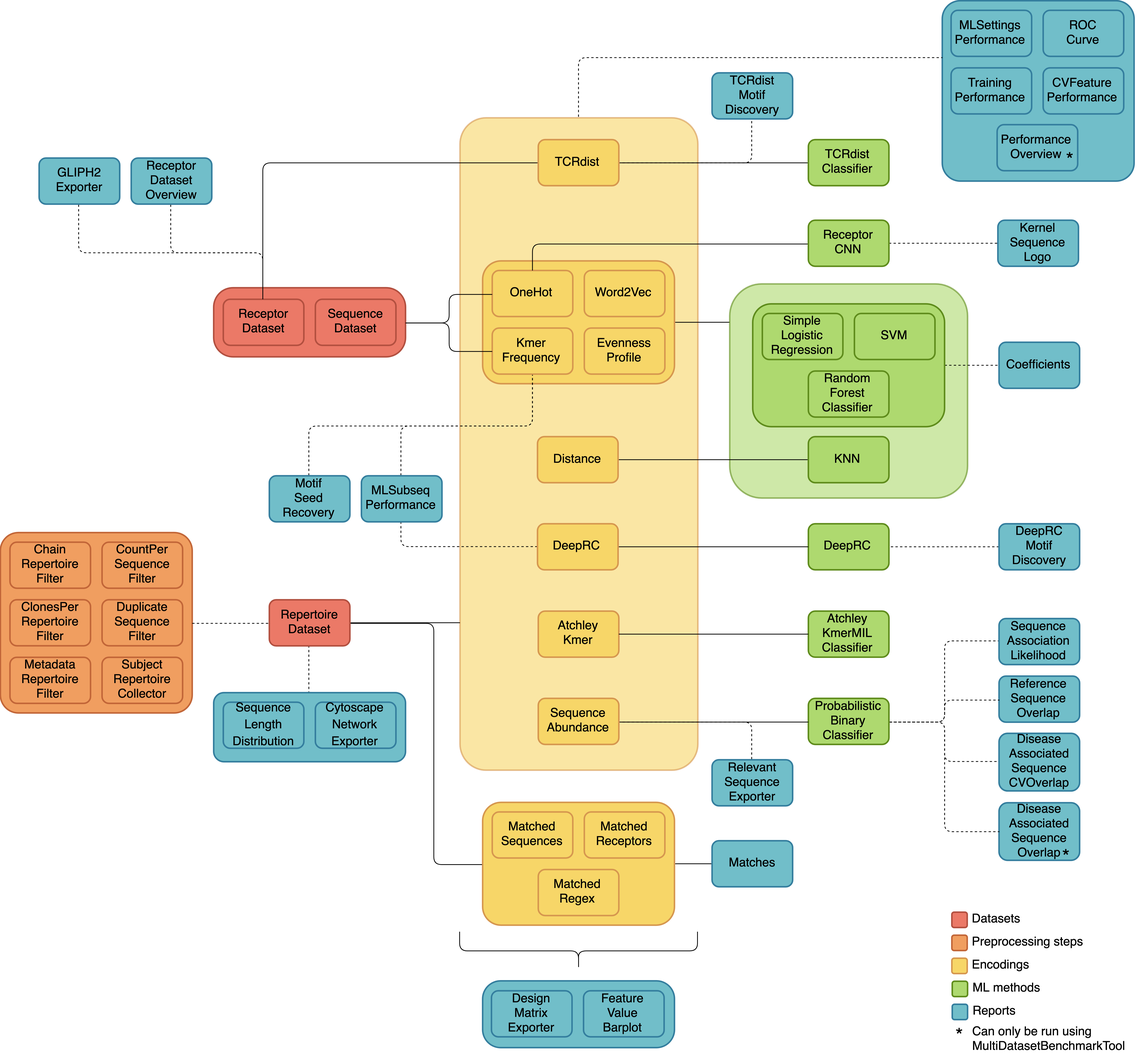
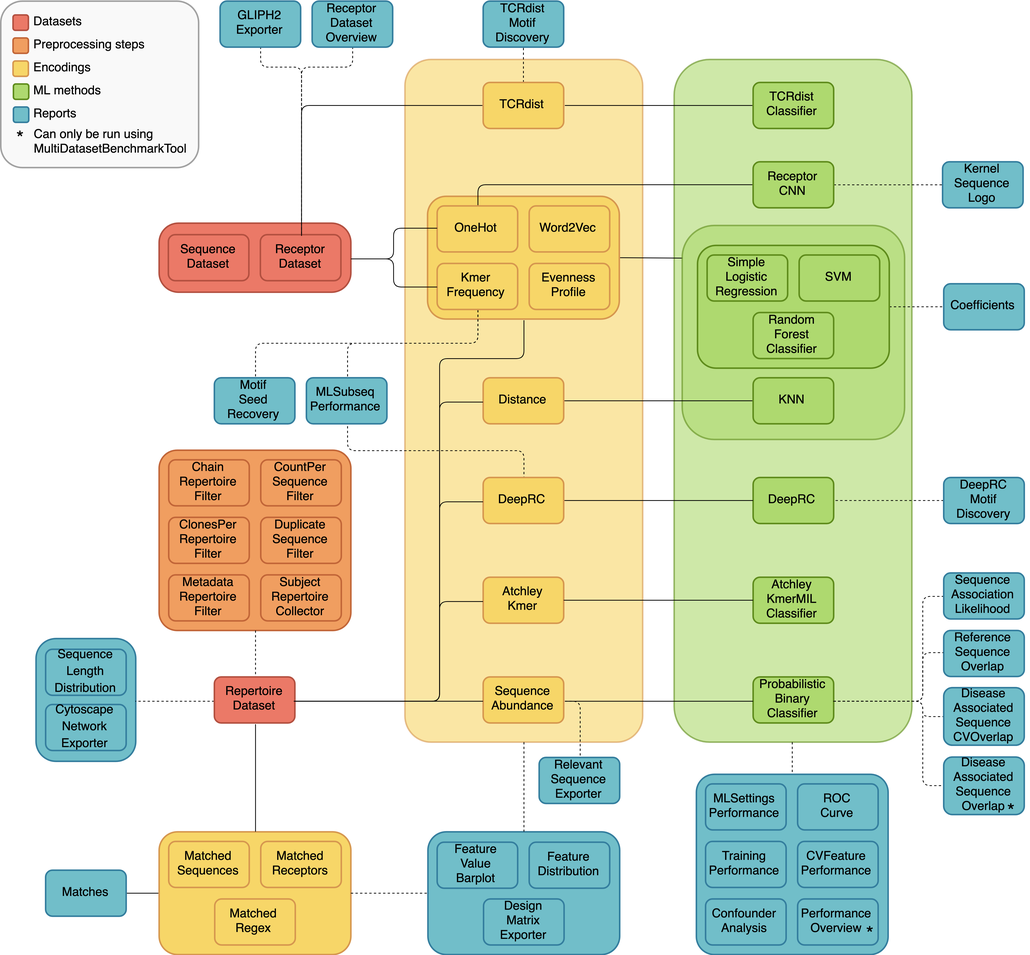
Documentation updates (user feedback) (#81)
* correct sentence in HTML: only 'metrics' are shown, this does not necessarily include optimization metric

* updated analysis paths figure: added new reports, made connections more correct (repertoire dataset not connected to tcrdist, ML reports connected to ML methods instead of encodings, some general reordering to make the figure more compact)

* Docs updates according to feedback

* minor update

* comment fix

* figure correction

* Update cli_yaml.rst

diff --git a/immuneML/presentation/html/templates/AssessmentSplitDetails.html b/immuneML/presentation/html/templates/AssessmentSplitDetails.html
@@ -104,8 +104,8 @@
         </div>
         {{/show_non_optimal}}
         {{#performances_per_metric}}
-        <p>The performance of different hyperparameter settings on all listed metrics (both the optimization metric and other metrics not used for
-            model selection and assessment) is shown in the table below. This is the performance on the test set for this assessment split when all
+        <p>The performance of different hyperparameter settings on all listed performance metrics
+            is shown in the table below. This is the performance on the test set for this assessment split when all
             models have been retrained on training and validation dataset (the same as the previous table).</p>
         <div class="table-container padded">
             {{{performances_per_metric}}}

diff --git a/docs/source/quickstart/galaxy_yaml.rst b/docs/source/quickstart/galaxy_yaml.rst
@@ -13,6 +13,7 @@ Getting started through Galaxy
 
 The Galaxy web interface is available at https://galaxy.immuneml.uio.no/.
 You may choose to register a user account or perform the analysis as an anonymous user.
+If you are an anonymous user, the data will disappear once your browser session expires.
 
 Different functionalities are available as Galaxy tools (left menu), and the analysis results appear in the Galaxy history (right list).
 These history elements can be used as input for the next tool, creating a multi-step analysis workflow.
@@ -29,18 +30,6 @@ available through `this Galaxy history <https://galaxy.immuneml.uio.no/u/immunem
 Alternatively, the tutorial :ref:`How to make an immuneML dataset in Galaxy` describes in detail
 how to make an immuneML dataset using your own data.
 
-This Quickstart dataset Galaxy history contains the following items:
-
-- 100 repertoire .tsv files in `AIRR format <https://docs.airr-community.org/en/stable/datarep/format.html>`_.
-
-- A Collection of repertoires. This history element collects the 100 above-mentioned repertoire files in a Galaxy collection.
-  This Galaxy collection makes it easier to select the repertoires as an input to Galaxy tools (instead of selecting all 100 files manually, you can select the collection).
-  To read how to make your own Galaxy collection, see :ref:`Creating a Galaxy collection of files`.
-
-- A metadata.csv file. The metadata file describes which of the 100 repertoires are diseased and healthy, under the
-  column named 'signal_disease' which contains the values True and False.
-  For details about the metadata file, see :ref:`What should the metadata file look like?`
-
 Individual files can be inspected by clicking the eyeball icons.
 To import the complete history, click the + icon in the right upper corner.
 
@@ -48,12 +37,25 @@ To import the complete history, click the + icon in the right upper corner.
    :alt: import button Galaxy
    :width: 250
 
+This Quickstart dataset Galaxy history contains the following items:
+
+- 100 repertoire .tsv files in AIRR format. For details about the AIRR format, see the `AIRR documentation <https://docs.airr-community.org/en/stable/datarep/format.html>`_ and `this example file <https://galaxy.immuneml.uio.no/datasets/e86c1af9d83bf1ee/display/?preview=True>`_).
+
+- A Collection of repertoires. This history element collects the 100 above-mentioned repertoire files in a Galaxy collection.
+  This Galaxy collection makes it easier to select the repertoires as an input to Galaxy tools (instead of selecting all 100 files manually, you can select the collection).
+  To read how to make your own Galaxy collection, see :ref:`Creating a Galaxy collection of files`.
+
+- A metadata.csv file. The metadata file describes which of the 100 repertoires are diseased and healthy, under the
+  column named 'signal_disease' which contains the values True and False.
+  For details about the metadata file, see :ref:`What should the metadata file look like?` and `this example file <https://galaxy.immuneml.uio.no/datasets/a6e389145d2bcee5/display/?preview=True>`_
+
+
 Step 2: creating an immuneML Galaxy dataset
 ^^^^^^^^^^^^^^^^^^^^^^^^^^^^^^^^^^^^^^^^^^^^^^^^^
-Use the `Create dataset Galaxy tool <https://galaxy.immuneml.uio.no/root?tool_id=immune_ml_dataset>`_ (immuneml tools > Create dataset) to import the dataset
+Use the `Create dataset<https://galaxy.immuneml.uio.no/root?tool_id=immune_ml_dataset>`_  Galaxy tool (under 'immuneML tools') to import the dataset
 and create an *immuneML dataset* history item, which can subsequently be used as input for other Galaxy tools.
 
-Using the simplified interface, select 'repertoire dataset' and 'AIRR' data format, and select the metadata.csv file as metadata file.
+Select 'Simplified interface', then 'repertoire dataset' as dataset type and 'AIRR' data format, and select the metadata.csv file as metadata file.
 Under the 'Data files' field, all repertoire files must be selected.
 This can either be done by manually selecting all 100 repertoire files, or by selecting the Collection of repertoires.
 For convenience, we will use the latter option.
@@ -68,13 +70,14 @@ Select the collection of repertoires so it becomes highlighted.
 
 Finally, click 'execute'.
 
-Three new items will appear in the Galaxy history. If everything went correctly, the items will appear green. If the items
+Three new items will appear in the Galaxy history. If everything went correctly, the items would appear green. If the items
 are red, an error occurred (check if you correctly selected the collection of repertoires).
 
 In 'Summary: dataset generation' you can find details about the newly
 generated dataset, including the name of the dataset, the dataset type and size, and a download link.
 
-The next item, 'Archive: dataset generation' contains an archive of the output folder produced by immuneML.
+The next item, 'create_dataset.yaml' the YAML specification file that was used by immuneML to create the dataset.
+This YAML specification could be used when running the Create dataset tool with the 'Advanced' interface.
 
 Finally, 'immuneML dataset' is a new Galaxy collection containing the immuneML dataset in Pickle format.
 The Pickle format is not human-readable, but it ensures that you can quickly import the dataset into various Galaxy tools
@@ -84,7 +87,7 @@ without having to repeatedly specify the import parameters.
 Step 3: writing the YAML specification
 ^^^^^^^^^^^^^^^^^^^^^^^^^^^^^^^^^^^^^^^^^^^^^^^^^
 Any immuneML analysis is described by a YAML specification file.
-This file contains nested key-value pairs. Mandatory keywords with a specific meaning are marked like :code:`this`
+This file contains nested key-value pairs. Mandatory keywords with a specific meaning are :code:`styled like this`
 in the text. Note that correct whitespace (not tab) indentation of the yaml file is important.
 
 In this tutorial, we will only cover the essential elements of the YAML specification.
@@ -180,7 +183,7 @@ The file will appear as a new history element.
 Step 4: running the analysis
 ^^^^^^^^^^^^^^^^^^^^^^^^^^^^^^^^^^^^^^^^^^^^^^^^^
 
-Next, the `Train machine learning models <https://galaxy.immuneml.uio.no/root?tool_id=immuneml_train_ml_model>`_ Galaxy tool should be used.
+Next, the `Train machine learning models <https://galaxy.immuneml.uio.no/root?tool_id=immuneml_train_ml_model>`_ Galaxy tool (under 'immuneML tools') should be used.
 Select the YAML specification and previously created dataset from the history, and no additional files.
 
 .. image:: ../_static/images/galaxy/galaxy_train_ml_model.png
@@ -197,9 +200,10 @@ After running the Galaxy tool for training ML models, three new items will appea
    :width: 250
 
 
-The history item 'Summary: repertoire classification' contains HTML pages displaying a summary of the analysis.
+The history item 'Summary: ML model training' contains HTML pages displaying a summary of the analysis.
 On the first page, you will find a table which shows for each of the splits which of the ML settings (combination of ML model and encoding)
 performed best in the inner cross-validation loop, and the performance score of that ML model on the test set.
+Note that in this tutorial, only 1 data split was used.
 Furthermore, you can click 'see details' in the table to find a more detailed explanation about how well each model
 performed in the inner loop of cross validation (on the validation sets).
 By clicking 'see reports' you can find a report that plots the 25 top coefficients of the trained logistic regression model.
@@ -211,7 +215,7 @@ the implanted disease signal 'VLEQ', meaning the ML model learned the correct si
    :alt: coefficients report
    :width: 600
 
-The next item, 'Archive: repertoire classification' contains a downloadable archive of the complete immuneML ouput (including
+The next item, 'Archive: ML model training' contains a downloadable archive of the complete immuneML ouput (including
 the files available through the other history elements).
 
 Finally, history element 'optimal_ml_settings.zip' is a .zip file containing the configuration of the optimal ML settings,

diff --git a/docs/source/quickstart/galaxy_simple.rst b/docs/source/quickstart/galaxy_simple.rst
@@ -30,7 +30,7 @@ how to make an immuneML dataset using your own data.
 
 This Quickstart dataset Galaxy history contains the following items:
 
-- 100 repertoire .tsv files in `AIRR format <https://docs.airr-community.org/en/stable/datarep/format.html>`_.
+- 100 repertoire .tsv files in AIRR format. For details about the AIRR format, see the `AIRR documentation <https://docs.airr-community.org/en/stable/datarep/format.html>`_ and `this example file <https://galaxy.immuneml.uio.no/datasets/e86c1af9d83bf1ee/display/?preview=True>`_).
 
 - A Collection of repertoires. This history element collects the 100 above-mentioned repertoire files in a Galaxy collection.
   This Galaxy collection makes it easier to select the repertoires as an input to Galaxy tools (instead of selecting all 100 files manually, you can select the collection).
@@ -38,7 +38,7 @@ This Quickstart dataset Galaxy history contains the following items:
 
 - A metadata.csv file. The metadata file describes which of the 100 repertoires are diseased and healthy, under the
   column named 'signal_disease' which contains the values True and False.
-  For details about the metadata file, see :ref:`What should the metadata file look like?`
+  For details about the metadata file, see :ref:`What should the metadata file look like?` and `this example file <https://galaxy.immuneml.uio.no/datasets/a6e389145d2bcee5/display/?preview=True>`_
 
 Individual files can be inspected by clicking the eyeball icons.
 To import the complete history, click the + icon in the right upper corner.
@@ -49,10 +49,10 @@ To import the complete history, click the + icon in the right upper corner.
 
 Step 2: creating an immuneML Galaxy dataset
 ^^^^^^^^^^^^^^^^^^^^^^^^^^^^^^^^^^^^^^^^^^^^^^^^^
-Use the `Create dataset Galaxy tool <https://galaxy.immuneml.uio.no/root?tool_id=immune_ml_dataset>`_ (immuneml tools > Create dataset) to import the dataset
+Use the `Create dataset<https://galaxy.immuneml.uio.no/root?tool_id=immune_ml_dataset>`_  Galaxy tool (under 'immuneML tools') to import the dataset
 and create an *immuneML dataset* history item, which can subsequently be used as input for other Galaxy tools.
 
-Using the simplified interface, select 'repertoire dataset' and 'AIRR' data format, and select the metadata.csv file as metadata file.
+Select 'Simplified interface', then 'repertoire dataset' as dataset type and 'AIRR' data format, and select the metadata.csv file as metadata file.
 Under the 'Data files' field, all repertoire files must be selected.
 This can either be done by manually selecting all 100 repertoire files, or by selecting the Collection of repertoires.
 For convenience, we will use the latter option.
@@ -67,13 +67,14 @@ Select the collection of repertoires so it becomes highlighted.
 
 Finally, click 'execute'.
 
-Three new items will appear in the Galaxy history. If everything went correctly, the items will appear green. If the items
+Three new items will appear in the Galaxy history. If everything went correctly, the items would appear green. If the items
 are red, an error occurred (check if you correctly selected the collection of repertoires).
 
-In 'Summary: dataset generation' you can find details about the newly
+By viewing 'Summary: dataset generation' (click the eyeball icon) you can find details about the newly
 generated dataset, including the name of the dataset, the dataset type and size, and a download link.
 
-The next item, 'Archive: dataset generation' contains an archive of the output folder produced by immuneML.
+The next item, 'create_dataset.yaml' the YAML specification file that was used by immuneML to create the dataset.
+This YAML specification could be used when running the Create dataset tool with the 'Advanced' interface.
 
 Finally, 'immuneML dataset' is a new Galaxy collection containing the immuneML dataset in Pickle format.
 The Pickle format is not human-readable, but it ensures that you can quickly import the dataset into various Galaxy tools
@@ -84,7 +85,7 @@ Step 3: running the analysis
 ^^^^^^^^^^^^^^^^^^^^^^^^^^^^^^^^^^^^^^^^^^^^^^^^^
 
 The immuneML Galaxy instance has two tools that provide a simplified interface for training immune receptor and immune
-repertoire classifiers. Here, we will use the tool `Train immune repertoire classifiers (simplified interface) <https://galaxy.immuneml.uio.no/root?tool_id=novice_immuneml_interface>`_.
+repertoire classifiers. Here, we will use the Galaxy tool `Train immune repertoire classifiers (simplified interface) <https://galaxy.immuneml.uio.no/root?tool_id=novice_immuneml_interface>`_ (under 'immuneML tools').
 
 Select the *immuneML dataset* as input dataset, and write the name of the label that you want to predict.
 In this case, the label is 'signal_disease', because it is defined in the metadata.csv file.
@@ -94,6 +95,10 @@ In this case, the label is 'signal_disease', because it is defined in the metada
    :width: 500
 
 All other options are configurable however you want (choose at least one ML method).
+To speed up the running time, decrease the number of times to repeat the training process with random splits of data (last question),
+for example by setting the value to 1.
+When using 1 data split, selecting all ML methods and otherwise default settings, the running time is expected to be approximately 2 minutes.
+
 For background information explaining the relevant machine learning concepts, please refer to the text written
 below the tool (the text can also be found in :ref:`the documentation <How to train immune repertoire classifiers using the simplified Galaxy interface>`).
 
@@ -108,15 +113,16 @@ After running the Galaxy tool for training ML models, four new items will appear
    :width: 250
 
 The history item 'Summary: repertoire classification' contains HTML pages displaying a summary of the analysis.
-On the first page, you will find a table which shows for each of the splits (i.e., each repetition of the experiment)
-which of the machine learning models performed best during cross-validation. Furthermore, there is a barplot comparing the performance of the different
+On the first page, you will find a table which shows for each of the splits (i.e., each repetition of the training process)
+which of the machine learning models performed best during cross-validation.
+Furthermore, there is a barplot comparing the performance of the different
 machine learning models on the test set across all the splits.
 
 .. image:: ../_static/images/galaxy/galaxy_mlsettingsperformance.png
    :alt: performance barplot
    :width: 500
 
-Furthermore, you can click 'see details' in the table to find a more detailed explanation about how well each model
+You can click 'see details' in the table to find a more detailed explanation about how well each model
 performed in the inner loop of cross validation (on the validation sets).
 By clicking 'see reports' you can find reports showing the 25 largest coefficients of logistic regression
 or support vector machine, or the top 25 most important features for random forest. Below is an example of logistic

diff --git a/docs/source/galaxy/galaxy_simple_repertoires.rst b/docs/source/galaxy/galaxy_simple_repertoires.rst
@@ -23,11 +23,11 @@ file, in columns where the header and values correspond to the label and classes
 
   Metadata for repertoire classification
 
-When training an ML model, the goal is for the model to learn signals within the data which discriminate between the different classes. An ML model
-that predicts classes is also referred to as a classifier. A signal can have a variety of definitions, including the presence of specific receptors,
+When training an ML model, the goal is for the model to learn **signals** within the data which discriminate between the different classes. An ML model
+that predicts classes is also referred to as a **classifier**. A signal can have a variety of definitions, including the presence of specific receptors,
 groups of similar receptors or short CDR3 subsequences in an immune repertoire. Our assumptions about what makes up a ‘signal’ determines how we
-should represent our data to the ML model. This representation is called encoding. In this tool, the appropriate encoding is chosen based on the
-answers to the last two questions in the graphical user interface.
+should represent our data to the ML model. This representation is called **encoding**. In this tool, the encoding is automatically chosen based on
+the user's assumptions about the dataset.
 
 .. figure:: ../_static/images/repertoire_classification_overview.png
   :width: 70%
@@ -52,6 +52,12 @@ new repertoire is no evidence for this repertoire also being diseased.
 Other encoding variants are based on shorter subsequences (e.g., 3 – 5 amino acids long, also referred to as k-mers) in the CDR3 regions of an immune repertoire. With this
 encoding, the CDR3 regions are divided into overlapping subsequences and the (disease) signal may be characterized by the presence or absence of
 certain sequence motifs in the CDR3 regions. Here, two similar CDR3 sequences are no longer independent, because they contain many identical subsequences.
+A graphical representation of how a CDR3 sequence can be divided into k-mers, and how these k-mers can relate to specific positions in a 3D immune receptor
+(here: antibody) is shown in this figure:
+
+.. image:: ../_static/images/3mer_to_3d.png
+  :width: 60%
+
 
 The subsequences may be position-dependent or invariant. Position invariant means that if a subsequence, e.g., ‘EDNA’ occurs in different positions
 in the CDR3 it will still be considered the same signal. This is not the case for position dependent subsequences, if ‘EDNA’ often occurs in the
@@ -67,8 +73,8 @@ Note that in any case, the (sub)sequences that are associated with the ‘positi
 Training a machine learning model
 ----------------------------------
 
-Training an ML model means optimizing the parameters for the model with the goal of predicting the correct class of an (unseen) immune repertoire.
-Different ML methods require different procedures for training. In addition to the model parameters there are the hyperparameters, which
+Training an ML model means optimizing the **parameters** for the model with the goal of predicting the correct class of an (unseen) immune repertoire.
+Different ML methods require different procedures for training. In addition to the model parameters there are the **hyperparameters**, which
 do not directly change the predictions of a model, but they control the learning process (for example: the learning speed).
 
 The immune repertoires are divided into sets with different purposes: the training and validation sets are used for finding the optimal parameters
@@ -78,9 +84,11 @@ In this tool, a range of plausible hyperparameters have been predefined for each
 training/validation data into 5 equal portions, where 4 portions are used to train the ML model (with different hyperparameters) and the remaining
 portion is used to validate the performance of these hyperparameter settings. This is repeated 5 times such that each portion has been used for
 validation once. With the best hyperparameters found in the 5 repetitions, a final model is trained using all 5 portions of the data. This procedure
-is also referred to as 5-fold cross-validation.
+is also referred to as 5-fold cross-validation. Note that this 5-fold cross-validation is separate from the number of times the splitting into
+training + validation and testing sets is done (see the overview figure).
 
-The whole process may be repeated multiple times with different randomly selected repertoires in the test set, to see how robust the performance is.
+Finally, the whole process is repeated one or more times with different randomly selected repertoires in the test set, to see how robust the performance
+of the ML methods is. The number of times to repeat this splitting into training + validation and test sets is determined in the last question.
 
 
 Tool output

diff --git a/docs/source/galaxy/galaxy_simple_receptors.rst b/docs/source/galaxy/galaxy_simple_receptors.rst
@@ -21,8 +21,8 @@ The labels and classes must be present in the receptor metadata.
 When training an ML model, the goal is for the model to learn **signals** within the data which discriminate between the different
 classes. An ML model that predicts classes is also referred to as a **classifier**. A signal can have a variety of definitions,
 including the presence of a specific subsequence or conserved positions. Our assumptions about what makes up a ‘signal’
-determines how we should represent our data to the ML model. This representation is called **encoding**. In this tool, the
-appropriate encoding is chosen based on the answers to the last two questions.
+determines how we should represent our data to the ML model. This representation is called **encoding**. In this tool, the encoding is automatically chosen based on
+the user's assumptions about the dataset.
 
 .. figure:: ../_static/images/receptor_classification_overview.png
   :width: 70%
@@ -44,6 +44,12 @@ Encoding
 Encodings for immune receptor data represent the immune receptor based on the subsequences (e.g., 3 – 5 amino acids long)
 in the CDR3 regions. The CDR3 regions are divided into overlapping subsequences and the (antigen specificity)
 signal may be characterized by the presence or absence of certain sequence motifs in the CDR3 region.
+A graphical representation of how a CDR3 sequence can be divided into k-mers, and how these k-mers can relate to specific positions in a 3D immune receptor
+(here: antibody) is shown in this figure:
+
+.. image:: ../_static/images/3mer_to_3d.png
+  :width: 60%
+
 
 The subsequences may be position dependent or invariant. Position invariant means that if a subsequence, e.g.,
 ‘EDNA’ occurs in different positions in the CDR3 it will still be considered the same signal. This is not the case for
@@ -73,10 +79,11 @@ In this tool, a range of plausible hyperparameters have been predefined for each
 training/validation data into 5 equal portions, where 4 portions are used to train the ML model (with different hyperparameters) and the remaining
 portion is used to validate the performance of these hyperparameters settings. This is repeated 5 times such that each portion has been used for
 validation once. With the best hyperparameters found in the 5 repetitions, a final model is trained using all 5 portions of the data. This procedure
-is also referred to as 5-fold cross-validation.
+is also referred to as 5-fold cross-validation. Note that this 5-fold cross-validation is separate from the number of times the splitting into
+training + validation and testing sets is done (see the overview figure).
 
-The whole process may be repeated multiple times with different randomly selected repertoires in the test set, to see how robust the performance is.
-
+Finally, the whole process is repeated one or more times with different randomly selected receptors in the test set, to see how robust the performance
+of the ML methods is. The number of times to repeat this splitting into training + validation and test sets is determined in the last question.
 
 Tool output
 ---------------------------------------------

diff --git a/docs/source/quickstart/cli_yaml.rst b/docs/source/quickstart/cli_yaml.rst
@@ -35,17 +35,17 @@ Step 1: downloading the dataset
 An archive containing the dataset used in this tutorial can be downloaded here: :download:`quickstart_data.zip <../_static/files/quickstart_data.zip>`.
 It contains the following files:
 
-- The 100 repertoire_<somenumber>.tsv, which are immune repertoire files in `AIRR format <https://docs.airr-community.org/en/stable/datarep/format.html>`_.
+- The 100 repertoire_<somenumber>.tsv, which are immune repertoire files in AIRR format. For details about the AIRR format, see the `AIRR documentation <https://docs.airr-community.org/en/stable/datarep/format.html>`_ and `this example file <https://galaxy.immuneml.uio.no/datasets/e86c1af9d83bf1ee/display/?preview=True>`_).
 
 - A metadata.csv file. The metadata file describes which of the 100 repertoires are diseased and healthy, under the
   column named 'signal_disease' which contains the values True and False.
-  For details about the metadata file, see :ref:`What should the metadata file look like?`
+  For details about the metadata file, see :ref:`What should the metadata file look like?` and `this example file <https://galaxy.immuneml.uio.no/datasets/a6e389145d2bcee5/display/?preview=True>`_
 
 Step 2: writing the YAML specification
 ^^^^^^^^^^^^^^^^^^^^^^^^^^^^^^^^^^^^^^^^^^^^^^^^^
 Any immuneML analysis is described by a YAML specification file.
-This file contains nested key-value pairs. Mandatory keywords with a specific meaning are marked like :code:`this`
-in the text. Note that correct whitespace (not tab) indentation of the yaml file is important.
+This file contains nested key-value pairs. Mandatory keywords with a specific meaning are :code:`styled like this`
+in the text. Note that correct whitespace (not tab) indentation of the YAML file is important.
 
 In this tutorial, we will only cover the essential elements of the YAML specification.
 For a more complete introduction, see :ref:`How to specify an analysis with YAML`.
@@ -145,6 +145,7 @@ Once the YAML specification has been saved to a file (for example: quickstart.ya
 #. Run the following command:
 
 .. code-block:: console
+
     immune-ml quickstart_specs.yaml ./quickstart_results/
 
 

diff --git a/docs/source/usecases/emerson_replication.rst b/docs/source/usecases/emerson_replication.rst
@@ -7,10 +7,10 @@ can be replicated within immuneML. Additionally, we test the approach on dataset
 
 The dataset was downloaded from Adaptive Biotechnologies' `website <https://clients.adaptivebiotech.com/pub/Emerson-2017-NatGen>`_.
 Out of the 786 subjects (cohort 1: 666, cohort 2: 120), we removed 103 subjects from cohort 1 (1 with missing repertoire data, 25 with unknown CMV
-status, 3 with negative template counts for some of the sequences and the rest with no template count information). The metadata files for cohorts 1 and 2
-with the list of subjects used in the downstream analysis is available at this link.
+status, 3 with negative template counts for some of the sequences and the rest with no template count information).
 
 The complete collection of original files used in this use case can be found in the NIRD research data archive (DOI: `10.11582/2021.00008 <https://doi.org/10.11582/2021.00008>`_).
+This also includes the metadata files for cohorts 1 and 2 with the list of subjects included in this use case.
 Note that the YAML specifications in the original dataset were compatible with immuneML version 1.0.1.
 This documentation page contains the YAML specifications for equivalent analyses with the latest immuneML version.
 
